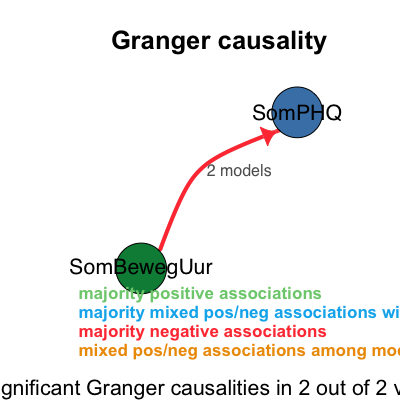
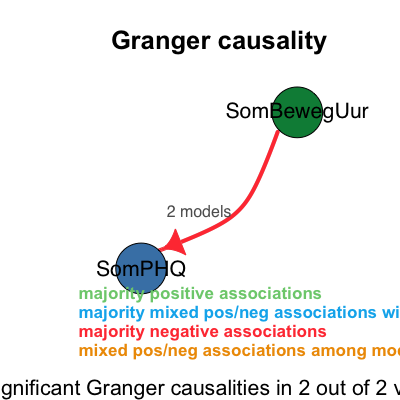
Updated help docs.

Changed region(s): [[0.48, 0.21, 0.93, 0.48], [0.18, 0.45, 0.63, 0.75]]

diff --git a/inst/help_files/add_trend.html b/inst/help_files/add_trend.html
@@ -70,27 +70,20 @@
     <pre class="examples"><div class='input'>av_state &lt;- load_file(&quot;../data/input/pp1 nieuw compleet.sav&quot;)
 </div>
 <div class='output'>load_file loaded SPSS file with 44 columns:
- [1] &quot;id (scl)&quot;                       &quot;geslacht (nom)&quot;                
- [3] &quot;leeftijd (scl)&quot;                 &quot;datum_MI (scl)&quot;                
- [5] &quot;roken (nom)&quot;                    &quot;BMI (scl)&quot;                     
- [7] &quot;depressie_verleden (scl)&quot;       &quot;hartfalen (nom)&quot;               
- [9] &quot;tijdstip (scl)&quot;                 &quot;norm_bewegen (nom)&quot;            
-[11] &quot;woon_werk (nom)&quot;                &quot;minuten_woonwerk (scl)&quot;        
-[13] &quot;licht_matigwerk (nom)&quot;          &quot;minuten_werk_licht (scl)&quot;      
-[15] &quot;zwaar_werk (nom)&quot;               &quot;minuten_zwaar_werk (scl)&quot;      
-[17] &quot;licht_huishouden (nom)&quot;         &quot;minuten_licht_huishouden (scl)&quot;
-[19] &quot;zwaar_huishouden (nom)&quot;         &quot;minuten_zwaarhuishouden (scl)&quot; 
-[21] &quot;vrije_tijd (nom)&quot;               &quot;minuten_vrijetijd (scl)&quot;       
-[23] &quot;sport (nom)&quot;                    &quot;minuten_sport (scl)&quot;           
-[25] &quot;PHQ1 (nom)&quot;                     &quot;PHQ2 (nom)&quot;                    
-[27] &quot;PHQ3 (nom)&quot;                     &quot;PHQ4 (nom)&quot;                    
-[29] &quot;PHQ5 (nom)&quot;                     &quot;PHQ6 (nom)&quot;                    
-[31] &quot;PHQ7 (nom)&quot;                     &quot;PHQ8 (nom)&quot;                    
-[33] &quot;PHQ9 (nom)&quot;                     &quot;beperking (nom)&quot;               
-[35] &quot;angst (nom)&quot;                    &quot;SomBewegen (scl)&quot;              
-[37] &quot;SomBewegUur (scl)&quot;              &quot;SomPHQ (scl)&quot;                  
-[39] &quot;PHQ_Somatisch (scl)&quot;            &quot;PHQ_Cognitief (scl)&quot;           
-[41] &quot;lnSomPHQ (scl)&quot;                 &quot;lnSomBewegUur (scl)&quot;           
+ [1] &quot;id (scl)&quot;                       &quot;geslacht (nom)&quot;                 &quot;leeftijd (scl)&quot;                
+ [4] &quot;datum_MI (scl)&quot;                 &quot;roken (nom)&quot;                    &quot;BMI (scl)&quot;                     
+ [7] &quot;depressie_verleden (scl)&quot;       &quot;hartfalen (nom)&quot;                &quot;tijdstip (scl)&quot;                
+[10] &quot;norm_bewegen (nom)&quot;             &quot;woon_werk (nom)&quot;                &quot;minuten_woonwerk (scl)&quot;        
+[13] &quot;licht_matigwerk (nom)&quot;          &quot;minuten_werk_licht (scl)&quot;       &quot;zwaar_werk (nom)&quot;              
+[16] &quot;minuten_zwaar_werk (scl)&quot;       &quot;licht_huishouden (nom)&quot;         &quot;minuten_licht_huishouden (scl)&quot;
+[19] &quot;zwaar_huishouden (nom)&quot;         &quot;minuten_zwaarhuishouden (scl)&quot;  &quot;vrije_tijd (nom)&quot;              
+[22] &quot;minuten_vrijetijd (scl)&quot;        &quot;sport (nom)&quot;                    &quot;minuten_sport (scl)&quot;           
+[25] &quot;PHQ1 (nom)&quot;                     &quot;PHQ2 (nom)&quot;                     &quot;PHQ3 (nom)&quot;                    
+[28] &quot;PHQ4 (nom)&quot;                     &quot;PHQ5 (nom)&quot;                     &quot;PHQ6 (nom)&quot;                    
+[31] &quot;PHQ7 (nom)&quot;                     &quot;PHQ8 (nom)&quot;                     &quot;PHQ9 (nom)&quot;                    
+[34] &quot;beperking (nom)&quot;                &quot;angst (nom)&quot;                    &quot;SomBewegen (scl)&quot;              
+[37] &quot;SomBewegUur (scl)&quot;              &quot;SomPHQ (scl)&quot;                   &quot;PHQ_Somatisch (scl)&quot;           
+[40] &quot;PHQ_Cognitief (scl)&quot;            &quot;lnSomPHQ (scl)&quot;                 &quot;lnSomBewegUur (scl)&quot;           
 [43] &quot;UitbijterPHQ (scl)&quot;             &quot;UitbijterBeweg (scl)&quot;          
 </div>
 <div class='input'>av_state &lt;- add_trend(av_state)
@@ -99,29 +92,22 @@
 </div>
 <div class='input'>column_names_output(av_state)
 </div>
-<div class='output'> [1] &quot;id (scl)&quot;                       &quot;geslacht (nom)&quot;                
- [3] &quot;leeftijd (scl)&quot;                 &quot;datum_MI (scl)&quot;                
- [5] &quot;roken (nom)&quot;                    &quot;BMI (scl)&quot;                     
- [7] &quot;depressie_verleden (scl)&quot;       &quot;hartfalen (nom)&quot;               
- [9] &quot;tijdstip (scl)&quot;                 &quot;norm_bewegen (nom)&quot;            
-[11] &quot;woon_werk (nom)&quot;                &quot;minuten_woonwerk (scl)&quot;        
-[13] &quot;licht_matigwerk (nom)&quot;          &quot;minuten_werk_licht (scl)&quot;      
-[15] &quot;zwaar_werk (nom)&quot;               &quot;minuten_zwaar_werk (scl)&quot;      
-[17] &quot;licht_huishouden (nom)&quot;         &quot;minuten_licht_huishouden (scl)&quot;
-[19] &quot;zwaar_huishouden (nom)&quot;         &quot;minuten_zwaarhuishouden (scl)&quot; 
-[21] &quot;vrije_tijd (nom)&quot;               &quot;minuten_vrijetijd (scl)&quot;       
-[23] &quot;sport (nom)&quot;                    &quot;minuten_sport (scl)&quot;           
-[25] &quot;PHQ1 (nom)&quot;                     &quot;PHQ2 (nom)&quot;                    
-[27] &quot;PHQ3 (nom)&quot;                     &quot;PHQ4 (nom)&quot;                    
-[29] &quot;PHQ5 (nom)&quot;                     &quot;PHQ6 (nom)&quot;                    
-[31] &quot;PHQ7 (nom)&quot;                     &quot;PHQ8 (nom)&quot;                    
-[33] &quot;PHQ9 (nom)&quot;                     &quot;beperking (nom)&quot;               
-[35] &quot;angst (nom)&quot;                    &quot;SomBewegen (scl)&quot;              
-[37] &quot;SomBewegUur (scl)&quot;              &quot;SomPHQ (scl)&quot;                  
-[39] &quot;PHQ_Somatisch (scl)&quot;            &quot;PHQ_Cognitief (scl)&quot;           
-[41] &quot;lnSomPHQ (scl)&quot;                 &quot;lnSomBewegUur (scl)&quot;           
-[43] &quot;UitbijterPHQ (scl)&quot;             &quot;UitbijterBeweg (scl)&quot;          
-[45] &quot;index (scl)&quot;                    &quot;index2 (scl)&quot;                  
+<div class='output'> [1] &quot;id (scl)&quot;                       &quot;geslacht (nom)&quot;                 &quot;leeftijd (scl)&quot;                
+ [4] &quot;datum_MI (scl)&quot;                 &quot;roken (nom)&quot;                    &quot;BMI (scl)&quot;                     
+ [7] &quot;depressie_verleden (scl)&quot;       &quot;hartfalen (nom)&quot;                &quot;tijdstip (scl)&quot;                
+[10] &quot;norm_bewegen (nom)&quot;             &quot;woon_werk (nom)&quot;                &quot;minuten_woonwerk (scl)&quot;        
+[13] &quot;licht_matigwerk (nom)&quot;          &quot;minuten_werk_licht (scl)&quot;       &quot;zwaar_werk (nom)&quot;              
+[16] &quot;minuten_zwaar_werk (scl)&quot;       &quot;licht_huishouden (nom)&quot;         &quot;minuten_licht_huishouden (scl)&quot;
+[19] &quot;zwaar_huishouden (nom)&quot;         &quot;minuten_zwaarhuishouden (scl)&quot;  &quot;vrije_tijd (nom)&quot;              
+[22] &quot;minuten_vrijetijd (scl)&quot;        &quot;sport (nom)&quot;                    &quot;minuten_sport (scl)&quot;           
+[25] &quot;PHQ1 (nom)&quot;                     &quot;PHQ2 (nom)&quot;                     &quot;PHQ3 (nom)&quot;                    
+[28] &quot;PHQ4 (nom)&quot;                     &quot;PHQ5 (nom)&quot;                     &quot;PHQ6 (nom)&quot;                    
+[31] &quot;PHQ7 (nom)&quot;                     &quot;PHQ8 (nom)&quot;                     &quot;PHQ9 (nom)&quot;                    
+[34] &quot;beperking (nom)&quot;                &quot;angst (nom)&quot;                    &quot;SomBewegen (scl)&quot;              
+[37] &quot;SomBewegUur (scl)&quot;              &quot;SomPHQ (scl)&quot;                   &quot;PHQ_Somatisch (scl)&quot;           
+[40] &quot;PHQ_Cognitief (scl)&quot;            &quot;lnSomPHQ (scl)&quot;                 &quot;lnSomBewegUur (scl)&quot;           
+[43] &quot;UitbijterPHQ (scl)&quot;             &quot;UitbijterBeweg (scl)&quot;           &quot;index (scl)&quot;                   
+[46] &quot;index2 (scl)&quot;                  
 </div>
 <div class='input'>av_state$data[[1]][c(&#39;index&#39;,&#39;index2&#39;)]
 </div>

diff --git a/inst/help_files/add_derived_column.html b/inst/help_files/add_derived_column.html
@@ -89,24 +89,18 @@
     <pre class="examples"><div class='input'>av_state &lt;- load_file(&quot;../data/input/RuwedataAngela.sav&quot;)
 </div>
 <div class='output'>load_file loaded SPSS file with 35 columns:
- [1] &quot;id (scl)&quot;                       &quot;geslacht (nom)&quot;                
- [3] &quot;leeftijd (scl)&quot;                 &quot;datum_MI (scl)&quot;                
- [5] &quot;roken (nom)&quot;                    &quot;BMI (scl)&quot;                     
- [7] &quot;depressie_verleden (scl)&quot;       &quot;hartfalen (nom)&quot;               
- [9] &quot;tijdstip (scl)&quot;                 &quot;norm_bewegen (nom)&quot;            
-[11] &quot;woon_werk (nom)&quot;                &quot;minuten_woonwerk (scl)&quot;        
-[13] &quot;licht_matigwerk (nom)&quot;          &quot;minuten_werk_licht (scl)&quot;      
-[15] &quot;zwaar_werk (nom)&quot;               &quot;minuten_zwaar_werk (scl)&quot;      
-[17] &quot;licht_huishouden (nom)&quot;         &quot;minuten_licht_huishouden (scl)&quot;
-[19] &quot;zwaar_huishouden (nom)&quot;         &quot;minuten_zwaarhuishouden (scl)&quot; 
-[21] &quot;vrije_tijd (nom)&quot;               &quot;minuten_vrijetijd (scl)&quot;       
-[23] &quot;sport (nom)&quot;                    &quot;minuten_sport (scl)&quot;           
-[25] &quot;PHQ1 (nom)&quot;                     &quot;PHQ2 (nom)&quot;                    
-[27] &quot;PHQ3 (nom)&quot;                     &quot;PHQ4 (nom)&quot;                    
-[29] &quot;PHQ5 (nom)&quot;                     &quot;PHQ6 (nom)&quot;                    
-[31] &quot;PHQ7 (nom)&quot;                     &quot;PHQ8 (nom)&quot;                    
-[33] &quot;PHQ9 (nom)&quot;                     &quot;beperking (nom)&quot;               
-[35] &quot;angst (nom)&quot;                   
+ [1] &quot;id (scl)&quot;                       &quot;geslacht (nom)&quot;                 &quot;leeftijd (scl)&quot;                
+ [4] &quot;datum_MI (scl)&quot;                 &quot;roken (nom)&quot;                    &quot;BMI (scl)&quot;                     
+ [7] &quot;depressie_verleden (scl)&quot;       &quot;hartfalen (nom)&quot;                &quot;tijdstip (scl)&quot;                
+[10] &quot;norm_bewegen (nom)&quot;             &quot;woon_werk (nom)&quot;                &quot;minuten_woonwerk (scl)&quot;        
+[13] &quot;licht_matigwerk (nom)&quot;          &quot;minuten_werk_licht (scl)&quot;       &quot;zwaar_werk (nom)&quot;              
+[16] &quot;minuten_zwaar_werk (scl)&quot;       &quot;licht_huishouden (nom)&quot;         &quot;minuten_licht_huishouden (scl)&quot;
+[19] &quot;zwaar_huishouden (nom)&quot;         &quot;minuten_zwaarhuishouden (scl)&quot;  &quot;vrije_tijd (nom)&quot;              
+[22] &quot;minuten_vrijetijd (scl)&quot;        &quot;sport (nom)&quot;                    &quot;minuten_sport (scl)&quot;           
+[25] &quot;PHQ1 (nom)&quot;                     &quot;PHQ2 (nom)&quot;                     &quot;PHQ3 (nom)&quot;                    
+[28] &quot;PHQ4 (nom)&quot;                     &quot;PHQ5 (nom)&quot;                     &quot;PHQ6 (nom)&quot;                    
+[31] &quot;PHQ7 (nom)&quot;                     &quot;PHQ8 (nom)&quot;                     &quot;PHQ9 (nom)&quot;                    
+[34] &quot;beperking (nom)&quot;                &quot;angst (nom)&quot;                   
 </div>
 <div class='input'>av_state &lt;- add_derived_column(av_state,&#39;SomPHQ&#39;,c(&#39;PHQ1&#39;,&#39;PHQ2&#39;,&#39;PHQ3&#39;,&#39;PHQ4&#39;,
                                &#39;PHQ5&#39;,&#39;PHQ6&#39;,&#39;PHQ7&#39;,&#39;PHQ8&#39;,&#39;PHQ9&#39;),
@@ -116,24 +110,18 @@
 </div>
 <div class='input'>column_names_output(av_state)
 </div>
-<div class='output'> [1] &quot;id (scl)&quot;                       &quot;geslacht (nom)&quot;                
- [3] &quot;leeftijd (scl)&quot;                 &quot;datum_MI (scl)&quot;                
- [5] &quot;roken (nom)&quot;                    &quot;BMI (scl)&quot;                     
- [7] &quot;depressie_verleden (scl)&quot;       &quot;hartfalen (nom)&quot;               
- [9] &quot;tijdstip (scl)&quot;                 &quot;norm_bewegen (nom)&quot;            
-[11] &quot;woon_werk (nom)&quot;                &quot;minuten_woonwerk (scl)&quot;        
-[13] &quot;licht_matigwerk (nom)&quot;          &quot;minuten_werk_licht (scl)&quot;      
-[15] &quot;zwaar_werk (nom)&quot;               &quot;minuten_zwaar_werk (scl)&quot;      
-[17] &quot;licht_huishouden (nom)&quot;         &quot;minuten_licht_huishouden (scl)&quot;
-[19] &quot;zwaar_huishouden (nom)&quot;         &quot;minuten_zwaarhuishouden (scl)&quot; 
-[21] &quot;vrije_tijd (nom)&quot;               &quot;minuten_vrijetijd (scl)&quot;       
-[23] &quot;sport (nom)&quot;                    &quot;minuten_sport (scl)&quot;           
-[25] &quot;PHQ1 (nom)&quot;                     &quot;PHQ2 (nom)&quot;                    
-[27] &quot;PHQ3 (nom)&quot;                     &quot;PHQ4 (nom)&quot;                    
-[29] &quot;PHQ5 (nom)&quot;                     &quot;PHQ6 (nom)&quot;                    
-[31] &quot;PHQ7 (nom)&quot;                     &quot;PHQ8 (nom)&quot;                    
-[33] &quot;PHQ9 (nom)&quot;                     &quot;beperking (nom)&quot;               
-[35] &quot;angst (nom)&quot;                    &quot;SomPHQ (scl)&quot;                  
+<div class='output'> [1] &quot;id (scl)&quot;                       &quot;geslacht (nom)&quot;                 &quot;leeftijd (scl)&quot;                
+ [4] &quot;datum_MI (scl)&quot;                 &quot;roken (nom)&quot;                    &quot;BMI (scl)&quot;                     
+ [7] &quot;depressie_verleden (scl)&quot;       &quot;hartfalen (nom)&quot;                &quot;tijdstip (scl)&quot;                
+[10] &quot;norm_bewegen (nom)&quot;             &quot;woon_werk (nom)&quot;                &quot;minuten_woonwerk (scl)&quot;        
+[13] &quot;licht_matigwerk (nom)&quot;          &quot;minuten_werk_licht (scl)&quot;       &quot;zwaar_werk (nom)&quot;              
+[16] &quot;minuten_zwaar_werk (scl)&quot;       &quot;licht_huishouden (nom)&quot;         &quot;minuten_licht_huishouden (scl)&quot;
+[19] &quot;zwaar_huishouden (nom)&quot;         &quot;minuten_zwaarhuishouden (scl)&quot;  &quot;vrije_tijd (nom)&quot;              
+[22] &quot;minuten_vrijetijd (scl)&quot;        &quot;sport (nom)&quot;                    &quot;minuten_sport (scl)&quot;           
+[25] &quot;PHQ1 (nom)&quot;                     &quot;PHQ2 (nom)&quot;                     &quot;PHQ3 (nom)&quot;                    
+[28] &quot;PHQ4 (nom)&quot;                     &quot;PHQ5 (nom)&quot;                     &quot;PHQ6 (nom)&quot;                    
+[31] &quot;PHQ7 (nom)&quot;                     &quot;PHQ8 (nom)&quot;                     &quot;PHQ9 (nom)&quot;                    
+[34] &quot;beperking (nom)&quot;                &quot;angst (nom)&quot;                    &quot;SomPHQ (scl)&quot;                  
 </div>
 <div class='input'>av_state &lt;- load_file(&quot;../data/input/pp1 nieuw compleet.sav&quot;,log_level=3)
 av_state &lt;- add_derived_column(av_state,&#39;SomBewegUur&#39;,&#39;SomBewegen&#39;,

diff --git a/inst/help_files/convert_to_graph.html b/inst/help_files/convert_to_graph.html
@@ -102,8 +102,8 @@ if (any(is.na(odata)))
 d&lt;-load_dataframe(odata,net_cfg)
 </div>
 <div class='output'>load_dataframe loaded data.frame with 6 columns:
-[1] &quot;uw_eigen_factor (scl)&quot; &quot;somberheid (scl)&quot;      &quot;ontspanning (scl)&quot;    
-[4] &quot;piekeren (scl)&quot;        &quot;hier_en_nu (scl)&quot;      &quot;humor (scl)&quot;          
+[1] &quot;uw_eigen_factor (scl)&quot; &quot;somberheid (scl)&quot;      &quot;ontspanning (scl)&quot;     &quot;piekeren (scl)&quot;        &quot;hier_en_nu (scl)&quot;     
+[6] &quot;humor (scl)&quot;          
 </div>
 <div class='input'>d&lt;-add_trend(d)
 </div>
@@ -128,11 +128,11 @@ var_main(av_state, vars = c(&quot;uw_eigen_factor&quot;, &quot;somberheid&quot;,
 
 Starting VAR (using 8 cores) with variables: uw_eigen_factor, somberheid, ontspanning, piekeren, hier_en_nu, humor
 
-Done. Processed 71 distinct models, of which 3 were valid.
+Done. Processed 72 distinct models, of which 1 was valid.
 </div>
 <div class='input'>cat(convert_to_graph(d,net_cfg))
 </div>
-<div class='output'>[{&quot;links&quot;:[{&quot;source&quot;:3,&quot;target&quot;:5,&quot;coef&quot;:&quot;0.453730352170528&quot;}],&quot;nodes&quot;:[{&quot;index&quot;:0,&quot;name&quot;:&quot;uw_eigen_factor&quot;,&quot;type&quot;:&quot;Neutraal&quot;},{&quot;index&quot;:1,&quot;name&quot;:&quot;somberheid&quot;,&quot;type&quot;:&quot;Negatief&quot;},{&quot;index&quot;:2,&quot;name&quot;:&quot;ontspanning&quot;,&quot;type&quot;:&quot;Positief&quot;},{&quot;index&quot;:3,&quot;name&quot;:&quot;piekeren&quot;,&quot;type&quot;:&quot;Negatief&quot;},{&quot;index&quot;:4,&quot;name&quot;:&quot;hier_en_nu&quot;,&quot;type&quot;:&quot;Positief&quot;},{&quot;index&quot;:5,&quot;name&quot;:&quot;humor&quot;,&quot;type&quot;:&quot;Positief&quot;}]},{&quot;links&quot;:[{&quot;source&quot;:1,&quot;target&quot;:0,&quot;coef&quot;:&quot;-0.683435741631862&quot;},{&quot;source&quot;:2,&quot;target&quot;:0,&quot;coef&quot;:&quot;0.407329361526893&quot;},{&quot;source&quot;:3,&quot;target&quot;:0,&quot;coef&quot;:&quot;-0.499020727964&quot;},{&quot;source&quot;:4,&quot;target&quot;:0,&quot;coef&quot;:&quot;0.222064555473176&quot;},{&quot;source&quot;:2,&quot;target&quot;:1,&quot;coef&quot;:&quot;-0.531678169453571&quot;},{&quot;source&quot;:3,&quot;target&quot;:1,&quot;coef&quot;:&quot;0.75259932265981&quot;},{&quot;source&quot;:3,&quot;target&quot;:2,&quot;coef&quot;:&quot;-0.640999143413689&quot;},{&quot;source&quot;:4,&quot;target&quot;:2,&quot;coef&quot;:&quot;0.396387733643993&quot;},{&quot;source&quot;:5,&quot;target&quot;:2,&quot;coef&quot;:&quot;0.2172318440011&quot;},{&quot;source&quot;:4,&quot;target&quot;:3,&quot;coef&quot;:&quot;-0.421132147155897&quot;},{&quot;source&quot;:5,&quot;target&quot;:3,&quot;coef&quot;:&quot;-0.241366941948704&quot;}],&quot;nodes&quot;:[{&quot;index&quot;:0,&quot;name&quot;:&quot;uw_eigen_factor&quot;,&quot;type&quot;:&quot;Neutraal&quot;},{&quot;index&quot;:1,&quot;name&quot;:&quot;somberheid&quot;,&quot;type&quot;:&quot;Negatief&quot;},{&quot;index&quot;:2,&quot;name&quot;:&quot;ontspanning&quot;,&quot;type&quot;:&quot;Positief&quot;},{&quot;index&quot;:3,&quot;name&quot;:&quot;piekeren&quot;,&quot;type&quot;:&quot;Negatief&quot;},{&quot;index&quot;:4,&quot;name&quot;:&quot;hier_en_nu&quot;,&quot;type&quot;:&quot;Positief&quot;},{&quot;index&quot;:5,&quot;name&quot;:&quot;humor&quot;,&quot;type&quot;:&quot;Positief&quot;}]}]</div></pre>
+<div class='output'>[{&quot;links&quot;:[{&quot;source&quot;:3,&quot;target&quot;:0,&quot;coef&quot;:&quot;0.279551497986192&quot;},{&quot;source&quot;:3,&quot;target&quot;:5,&quot;coef&quot;:&quot;0.428452574362824&quot;}],&quot;nodes&quot;:[{&quot;index&quot;:0,&quot;name&quot;:&quot;uw_eigen_factor&quot;,&quot;type&quot;:&quot;Neutraal&quot;},{&quot;index&quot;:1,&quot;name&quot;:&quot;somberheid&quot;,&quot;type&quot;:&quot;Negatief&quot;},{&quot;index&quot;:2,&quot;name&quot;:&quot;ontspanning&quot;,&quot;type&quot;:&quot;Positief&quot;},{&quot;index&quot;:3,&quot;name&quot;:&quot;piekeren&quot;,&quot;type&quot;:&quot;Negatief&quot;},{&quot;index&quot;:4,&quot;name&quot;:&quot;hier_en_nu&quot;,&quot;type&quot;:&quot;Positief&quot;},{&quot;index&quot;:5,&quot;name&quot;:&quot;humor&quot;,&quot;type&quot;:&quot;Positief&quot;}]},{&quot;links&quot;:[{&quot;source&quot;:1,&quot;target&quot;:0,&quot;coef&quot;:&quot;-0.75136933874518&quot;},{&quot;source&quot;:2,&quot;target&quot;:0,&quot;coef&quot;:&quot;0.345885581701007&quot;},{&quot;source&quot;:3,&quot;target&quot;:0,&quot;coef&quot;:&quot;-0.509543722533716&quot;},{&quot;source&quot;:2,&quot;target&quot;:1,&quot;coef&quot;:&quot;-0.447824220108275&quot;},{&quot;source&quot;:3,&quot;target&quot;:1,&quot;coef&quot;:&quot;0.707048635600918&quot;},{&quot;source&quot;:3,&quot;target&quot;:2,&quot;coef&quot;:&quot;-0.633204550484332&quot;},{&quot;source&quot;:4,&quot;target&quot;:2,&quot;coef&quot;:&quot;0.39388494803894&quot;},{&quot;source&quot;:5,&quot;target&quot;:2,&quot;coef&quot;:&quot;0.218785745865346&quot;},{&quot;source&quot;:4,&quot;target&quot;:3,&quot;coef&quot;:&quot;-0.432852699339957&quot;},{&quot;source&quot;:5,&quot;target&quot;:3,&quot;coef&quot;:&quot;-0.273087282687946&quot;}],&quot;nodes&quot;:[{&quot;index&quot;:0,&quot;name&quot;:&quot;uw_eigen_factor&quot;,&quot;type&quot;:&quot;Neutraal&quot;},{&quot;index&quot;:1,&quot;name&quot;:&quot;somberheid&quot;,&quot;type&quot;:&quot;Negatief&quot;},{&quot;index&quot;:2,&quot;name&quot;:&quot;ontspanning&quot;,&quot;type&quot;:&quot;Positief&quot;},{&quot;index&quot;:3,&quot;name&quot;:&quot;piekeren&quot;,&quot;type&quot;:&quot;Negatief&quot;},{&quot;index&quot;:4,&quot;name&quot;:&quot;hier_en_nu&quot;,&quot;type&quot;:&quot;Positief&quot;},{&quot;index&quot;:5,&quot;name&quot;:&quot;humor&quot;,&quot;type&quot;:&quot;Positief&quot;}]},[{&quot;source&quot;:&quot;piekeren&quot;,&quot;target&quot;:&quot;humor&quot;,&quot;sign&quot;:1},{&quot;source&quot;:&quot;piekeren&quot;,&quot;target&quot;:&quot;uw_eigen_factor&quot;,&quot;sign&quot;:1}]]</div></pre>
   </div>
   <div class="span4">
     <!-- <ul>

diff --git a/inst/help_files/generate_networks.html b/inst/help_files/generate_networks.html
@@ -72,7 +72,7 @@
     <div class="Value">
       <h2>Value</h2>
       
-      <p>This function returns a string representing a json array of two networks.</p>
+      <p>This function returns a string representing a json array of two networks and an array of the top links.</p>
   
     </div>
 
@@ -136,8 +136,8 @@ var_main(av_state, vars = c(&quot;uw_eigen_factor&quot;, &quot;somberheid&quot;,
 
 Starting VAR (using 8 cores) with variables: uw_eigen_factor, somberheid, ontspanning, piekeren, hier_en_nu, humor
 
-Done. Processed 77 distinct models, of which 1 was valid.
-[{&quot;links&quot;:[{&quot;source&quot;:3,&quot;target&quot;:0,&quot;coef&quot;:&quot;0.289285172818161&quot;},{&quot;source&quot;:0,&quot;target&quot;:1,&quot;coef&quot;:&quot;0.479107951285611&quot;},{&quot;source&quot;:3,&quot;target&quot;:5,&quot;coef&quot;:&quot;0.403671438797497&quot;}],&quot;nodes&quot;:[{&quot;index&quot;:0,&quot;name&quot;:&quot;Mijn eigen factor&quot;,&quot;type&quot;:&quot;Neutraal&quot;},{&quot;index&quot;:1,&quot;name&quot;:&quot;Somberheid&quot;,&quot;type&quot;:&quot;Negatief&quot;},{&quot;index&quot;:2,&quot;name&quot;:&quot;Ontspanning&quot;,&quot;type&quot;:&quot;Positief&quot;},{&quot;index&quot;:3,&quot;name&quot;:&quot;Piekeren&quot;,&quot;type&quot;:&quot;Negatief&quot;},{&quot;index&quot;:4,&quot;name&quot;:&quot;In het hier en nu leven&quot;,&quot;type&quot;:&quot;Positief&quot;},{&quot;index&quot;:5,&quot;name&quot;:&quot;Humor&quot;,&quot;type&quot;:&quot;Positief&quot;}]},{&quot;links&quot;:[{&quot;source&quot;:1,&quot;target&quot;:0,&quot;coef&quot;:&quot;-0.763058382453199&quot;},{&quot;source&quot;:2,&quot;target&quot;:0,&quot;coef&quot;:&quot;0.343423873578255&quot;},{&quot;source&quot;:3,&quot;target&quot;:0,&quot;coef&quot;:&quot;-0.500603180971244&quot;},{&quot;source&quot;:5,&quot;target&quot;:0,&quot;coef&quot;:&quot;0.229443225427935&quot;},{&quot;source&quot;:2,&quot;target&quot;:1,&quot;coef&quot;:&quot;-0.42311230077116&quot;},{&quot;source&quot;:3,&quot;target&quot;:1,&quot;coef&quot;:&quot;0.683548446602891&quot;},{&quot;source&quot;:3,&quot;target&quot;:2,&quot;coef&quot;:&quot;-0.621230288717345&quot;},{&quot;source&quot;:4,&quot;target&quot;:2,&quot;coef&quot;:&quot;0.370498744845333&quot;},{&quot;source&quot;:5,&quot;target&quot;:2,&quot;coef&quot;:&quot;0.279560840425344&quot;},{&quot;source&quot;:4,&quot;target&quot;:3,&quot;coef&quot;:&quot;-0.382517230849092&quot;},{&quot;source&quot;:5,&quot;target&quot;:3,&quot;coef&quot;:&quot;-0.343781673877284&quot;}],&quot;nodes&quot;:[{&quot;index&quot;:0,&quot;name&quot;:&quot;Mijn eigen factor&quot;,&quot;type&quot;:&quot;Neutraal&quot;},{&quot;index&quot;:1,&quot;name&quot;:&quot;Somberheid&quot;,&quot;type&quot;:&quot;Negatief&quot;},{&quot;index&quot;:2,&quot;name&quot;:&quot;Ontspanning&quot;,&quot;type&quot;:&quot;Positief&quot;},{&quot;index&quot;:3,&quot;name&quot;:&quot;Piekeren&quot;,&quot;type&quot;:&quot;Negatief&quot;},{&quot;index&quot;:4,&quot;name&quot;:&quot;In het hier en nu leven&quot;,&quot;type&quot;:&quot;Positief&quot;},{&quot;index&quot;:5,&quot;name&quot;:&quot;Humor&quot;,&quot;type&quot;:&quot;Positief&quot;}]}]</div></pre>
+Done. Processed 72 distinct models, of which 2 were valid.
+[{&quot;links&quot;:[{&quot;source&quot;:3,&quot;target&quot;:5,&quot;coef&quot;:&quot;0.485741749239111&quot;}],&quot;nodes&quot;:[{&quot;index&quot;:0,&quot;name&quot;:&quot;Mijn eigen factor&quot;,&quot;type&quot;:&quot;Neutraal&quot;},{&quot;index&quot;:1,&quot;name&quot;:&quot;Somberheid&quot;,&quot;type&quot;:&quot;Negatief&quot;},{&quot;index&quot;:2,&quot;name&quot;:&quot;Ontspanning&quot;,&quot;type&quot;:&quot;Positief&quot;},{&quot;index&quot;:3,&quot;name&quot;:&quot;Piekeren&quot;,&quot;type&quot;:&quot;Negatief&quot;},{&quot;index&quot;:4,&quot;name&quot;:&quot;In het hier en nu leven&quot;,&quot;type&quot;:&quot;Positief&quot;},{&quot;index&quot;:5,&quot;name&quot;:&quot;Humor&quot;,&quot;type&quot;:&quot;Positief&quot;}]},{&quot;links&quot;:[{&quot;source&quot;:1,&quot;target&quot;:0,&quot;coef&quot;:&quot;-0.705018607144886&quot;},{&quot;source&quot;:2,&quot;target&quot;:0,&quot;coef&quot;:&quot;0.375844475104345&quot;},{&quot;source&quot;:3,&quot;target&quot;:0,&quot;coef&quot;:&quot;-0.480143342399709&quot;},{&quot;source&quot;:2,&quot;target&quot;:1,&quot;coef&quot;:&quot;-0.486963419482534&quot;},{&quot;source&quot;:3,&quot;target&quot;:1,&quot;coef&quot;:&quot;0.715181881557467&quot;},{&quot;source&quot;:3,&quot;target&quot;:2,&quot;coef&quot;:&quot;-0.639203213297717&quot;},{&quot;source&quot;:4,&quot;target&quot;:2,&quot;coef&quot;:&quot;0.398539058834771&quot;},{&quot;source&quot;:4,&quot;target&quot;:3,&quot;coef&quot;:&quot;-0.420391777885936&quot;},{&quot;source&quot;:5,&quot;target&quot;:3,&quot;coef&quot;:&quot;-0.240817087084735&quot;}],&quot;nodes&quot;:[{&quot;index&quot;:0,&quot;name&quot;:&quot;Mijn eigen factor&quot;,&quot;type&quot;:&quot;Neutraal&quot;},{&quot;index&quot;:1,&quot;name&quot;:&quot;Somberheid&quot;,&quot;type&quot;:&quot;Negatief&quot;},{&quot;index&quot;:2,&quot;name&quot;:&quot;Ontspanning&quot;,&quot;type&quot;:&quot;Positief&quot;},{&quot;index&quot;:3,&quot;name&quot;:&quot;Piekeren&quot;,&quot;type&quot;:&quot;Negatief&quot;},{&quot;index&quot;:4,&quot;name&quot;:&quot;In het hier en nu leven&quot;,&quot;type&quot;:&quot;Positief&quot;},{&quot;index&quot;:5,&quot;name&quot;:&quot;Humor&quot;,&quot;type&quot;:&quot;Positief&quot;}]},[{&quot;source&quot;:&quot;piekeren&quot;,&quot;target&quot;:&quot;humor&quot;,&quot;sign&quot;:1}]]</div></pre>
   </div>
   <div class="span4">
     <!-- <ul>

diff --git a/inst/help_files/select_relevant_columns.html b/inst/help_files/select_relevant_columns.html
@@ -84,17 +84,14 @@
 data&lt;-load_file(&quot;../data/input/DataDndN_nonimputed_voorAndo.sav&quot;)
 </div>
 <div class='output'>load_file loaded SPSS file with 32 columns:
- [1] &quot;roqua_id (scl)&quot;              &quot;patient_id (nom)&quot;            &quot;mad_diary_id (scl)&quot;         
- [4] &quot;mad_diary_protocol (nom)&quot;    &quot;mad_diary_project (nom)&quot;     &quot;mad_diary_measurement (nom)&quot;
- [7] &quot;mad_diary_notes (nom)&quot;       &quot;mad_diary_location (nom)&quot;    &quot;mad_diary_invited_at (scl)&quot; 
-[10] &quot;mad_diary_emailed_at (nom)&quot;  &quot;mad_diary_open_from (scl)&quot;   &quot;mad_diary_compl_by (nom)&quot;   
-[13] &quot;mad_diary_date (nom)&quot;        &quot;mad_diary_variant (nom)&quot;     &quot;mad_diary_tekst6 (nom)&quot;     
-[16] &quot;ontspanning (scl)&quot;           &quot;opgewektheid (scl)&quot;          &quot;hier_en_nu (scl)&quot;           
-[19] &quot;concentratie (scl)&quot;          &quot;beweging (scl)&quot;              &quot;iets_betekenen (scl)&quot;       
-[22] &quot;humor (scl)&quot;                 &quot;buiten_zijn (scl)&quot;           &quot;eigenwaarde (scl)&quot;          
-[25] &quot;levenslust (scl)&quot;            &quot;onrust (scl)&quot;                &quot;somberheid (scl)&quot;           
-[28] &quot;lichamelijk_ongemak (scl)&quot;   &quot;tekortschieten (scl)&quot;        &quot;piekeren (scl)&quot;             
-[31] &quot;eenzaamheid (scl)&quot;           &quot;uw_eigen_factor (scl)&quot;      
+ [1] &quot;roqua_id (scl)&quot;              &quot;patient_id (nom)&quot;            &quot;mad_diary_id (scl)&quot;          &quot;mad_diary_protocol (nom)&quot;   
+ [5] &quot;mad_diary_project (nom)&quot;     &quot;mad_diary_measurement (nom)&quot; &quot;mad_diary_notes (nom)&quot;       &quot;mad_diary_location (nom)&quot;   
+ [9] &quot;mad_diary_invited_at (scl)&quot;  &quot;mad_diary_emailed_at (nom)&quot;  &quot;mad_diary_open_from (scl)&quot;   &quot;mad_diary_compl_by (nom)&quot;   
+[13] &quot;mad_diary_date (nom)&quot;        &quot;mad_diary_variant (nom)&quot;     &quot;mad_diary_tekst6 (nom)&quot;      &quot;ontspanning (scl)&quot;          
+[17] &quot;opgewektheid (scl)&quot;          &quot;hier_en_nu (scl)&quot;            &quot;concentratie (scl)&quot;          &quot;beweging (scl)&quot;             
+[21] &quot;iets_betekenen (scl)&quot;        &quot;humor (scl)&quot;                 &quot;buiten_zijn (scl)&quot;           &quot;eigenwaarde (scl)&quot;          
+[25] &quot;levenslust (scl)&quot;            &quot;onrust (scl)&quot;                &quot;somberheid (scl)&quot;            &quot;lichamelijk_ongemak (scl)&quot;  
+[29] &quot;tekortschieten (scl)&quot;        &quot;piekeren (scl)&quot;              &quot;eenzaamheid (scl)&quot;           &quot;uw_eigen_factor (scl)&quot;      
 </div>
 <div class='input'>data&lt;-data$raw_data[,GN_COLUMNS]
 net_cfg &lt;- new_net_cfg()
@@ -110,8 +107,7 @@ net_cfg$negative_variables &lt;- c(&#39;onrust&#39;,&#39;somberheid&#39;,&#39;li
                                 &#39;tekortschieten&#39;,&#39;piekeren&#39;,&#39;eenzaamheid&#39;)
 names(select_relevant_columns(data,net_cfg,FALSE,6))
 </div>
-<div class='output'>[1] &quot;uw_eigen_factor&quot; &quot;somberheid&quot;      &quot;ontspanning&quot;     &quot;piekeren&quot;        &quot;hier_en_nu&quot;     
-[6] &quot;humor&quot;          
+<div class='output'>[1] &quot;uw_eigen_factor&quot; &quot;somberheid&quot;      &quot;ontspanning&quot;     &quot;piekeren&quot;        &quot;hier_en_nu&quot;      &quot;humor&quot;          
 </div></pre>
   </div>
   <div class="span4">

diff --git a/inst/help_files/load_file.html b/inst/help_files/load_file.html
@@ -75,24 +75,18 @@
     <pre class="examples"><div class='input'>av_state &lt;- load_file(&quot;../data/input/RuwedataAngela.sav&quot;)
 </div>
 <div class='output'>load_file loaded SPSS file with 35 columns:
- [1] &quot;id (scl)&quot;                       &quot;geslacht (nom)&quot;                
- [3] &quot;leeftijd (scl)&quot;                 &quot;datum_MI (scl)&quot;                
- [5] &quot;roken (nom)&quot;                    &quot;BMI (scl)&quot;                     
- [7] &quot;depressie_verleden (scl)&quot;       &quot;hartfalen (nom)&quot;               
- [9] &quot;tijdstip (scl)&quot;                 &quot;norm_bewegen (nom)&quot;            
-[11] &quot;woon_werk (nom)&quot;                &quot;minuten_woonwerk (scl)&quot;        
-[13] &quot;licht_matigwerk (nom)&quot;          &quot;minuten_werk_licht (scl)&quot;      
-[15] &quot;zwaar_werk (nom)&quot;               &quot;minuten_zwaar_werk (scl)&quot;      
-[17] &quot;licht_huishouden (nom)&quot;         &quot;minuten_licht_huishouden (scl)&quot;
-[19] &quot;zwaar_huishouden (nom)&quot;         &quot;minuten_zwaarhuishouden (scl)&quot; 
-[21] &quot;vrije_tijd (nom)&quot;               &quot;minuten_vrijetijd (scl)&quot;       
-[23] &quot;sport (nom)&quot;                    &quot;minuten_sport (scl)&quot;           
-[25] &quot;PHQ1 (nom)&quot;                     &quot;PHQ2 (nom)&quot;                    
-[27] &quot;PHQ3 (nom)&quot;                     &quot;PHQ4 (nom)&quot;                    
-[29] &quot;PHQ5 (nom)&quot;                     &quot;PHQ6 (nom)&quot;                    
-[31] &quot;PHQ7 (nom)&quot;                     &quot;PHQ8 (nom)&quot;                    
-[33] &quot;PHQ9 (nom)&quot;                     &quot;beperking (nom)&quot;               
-[35] &quot;angst (nom)&quot;                   
+ [1] &quot;id (scl)&quot;                       &quot;geslacht (nom)&quot;                 &quot;leeftijd (scl)&quot;                
+ [4] &quot;datum_MI (scl)&quot;                 &quot;roken (nom)&quot;                    &quot;BMI (scl)&quot;                     
+ [7] &quot;depressie_verleden (scl)&quot;       &quot;hartfalen (nom)&quot;                &quot;tijdstip (scl)&quot;                
+[10] &quot;norm_bewegen (nom)&quot;             &quot;woon_werk (nom)&quot;                &quot;minuten_woonwerk (scl)&quot;        
+[13] &quot;licht_matigwerk (nom)&quot;          &quot;minuten_werk_licht (scl)&quot;       &quot;zwaar_werk (nom)&quot;              
+[16] &quot;minuten_zwaar_werk (scl)&quot;       &quot;licht_huishouden (nom)&quot;         &quot;minuten_licht_huishouden (scl)&quot;
+[19] &quot;zwaar_huishouden (nom)&quot;         &quot;minuten_zwaarhuishouden (scl)&quot;  &quot;vrije_tijd (nom)&quot;              
+[22] &quot;minuten_vrijetijd (scl)&quot;        &quot;sport (nom)&quot;                    &quot;minuten_sport (scl)&quot;           
+[25] &quot;PHQ1 (nom)&quot;                     &quot;PHQ2 (nom)&quot;                     &quot;PHQ3 (nom)&quot;                    
+[28] &quot;PHQ4 (nom)&quot;                     &quot;PHQ5 (nom)&quot;                     &quot;PHQ6 (nom)&quot;                    
+[31] &quot;PHQ7 (nom)&quot;                     &quot;PHQ8 (nom)&quot;                     &quot;PHQ9 (nom)&quot;                    
+[34] &quot;beperking (nom)&quot;                &quot;angst (nom)&quot;                   
 </div>
 <div class='input'>print(av_state)
 </div>

diff --git a/inst/help_files/impute_dataframe.html b/inst/help_files/impute_dataframe.html
@@ -121,43 +121,43 @@ data
 1   1  1.000000    1.00000
 2   1  2.000000    4.00000
 3   1  3.000000    9.00000
-4   1  4.175826   16.00000
-5   1  5.000000   26.34966
+4   1  4.117192   16.00000
+5   1  5.000000   33.69031
 6   1  6.000000   36.00000
 7   1  7.000000   49.00000
-8   1  8.130057   64.00000
+8   1  8.103199   64.00000
 9   1  9.000000   81.00000
-10  1 10.000000  105.73350
+10  1 10.000000  109.33903
 11  1 11.000000  121.00000
-12  1 12.149971  144.00000
+12  1 12.086278  144.00000
 13  1 13.000000  169.00000
 14  1 14.000000  196.00000
-15  1 15.000000  235.99119
-16  1 16.149738  256.00000
+15  1 15.000000  234.24395
+16  1 16.109257  256.00000
 17  1 17.000000  289.00000
 18  1 18.000000  324.00000
 19  1 19.000000  361.00000
-20  1 20.177975  408.04231
+20  1 19.946659  405.18323
 21  1 21.000000  441.00000
 22  1 22.000000  484.00000
 23  1 23.000000  529.00000
-24  1 24.087547  576.00000
-25  1 25.000000  626.67537
+24  1 23.766569  576.00000
+25  1 25.000000  625.50022
 26  1 26.000000  676.00000
 27  1 27.000000  729.00000
-28  1 27.793824  784.00000
+28  1 27.929067  784.00000
 29  1 29.000000  841.00000
-30  1 30.000000  891.70721
+30  1 30.000000  892.88152
 31  1 31.000000  961.00000
-32  1 31.584660 1024.00000
+32  1 31.835243 1024.00000
 33  1 33.000000 1089.00000
 34  1 34.000000 1156.00000
-35  1 35.000000 1216.66323
-36  1 35.420814 1296.00000
+35  1 35.000000 1221.08571
+36  1 35.714451 1296.00000
 37  1 37.000000 1369.00000
 38  1 38.000000 1444.00000
 39  1 39.000000 1521.00000
-40  1 39.462280 1567.02401
+40  1 39.464425 1567.06127
 </div></pre>
   </div>
   <div class="span4">
